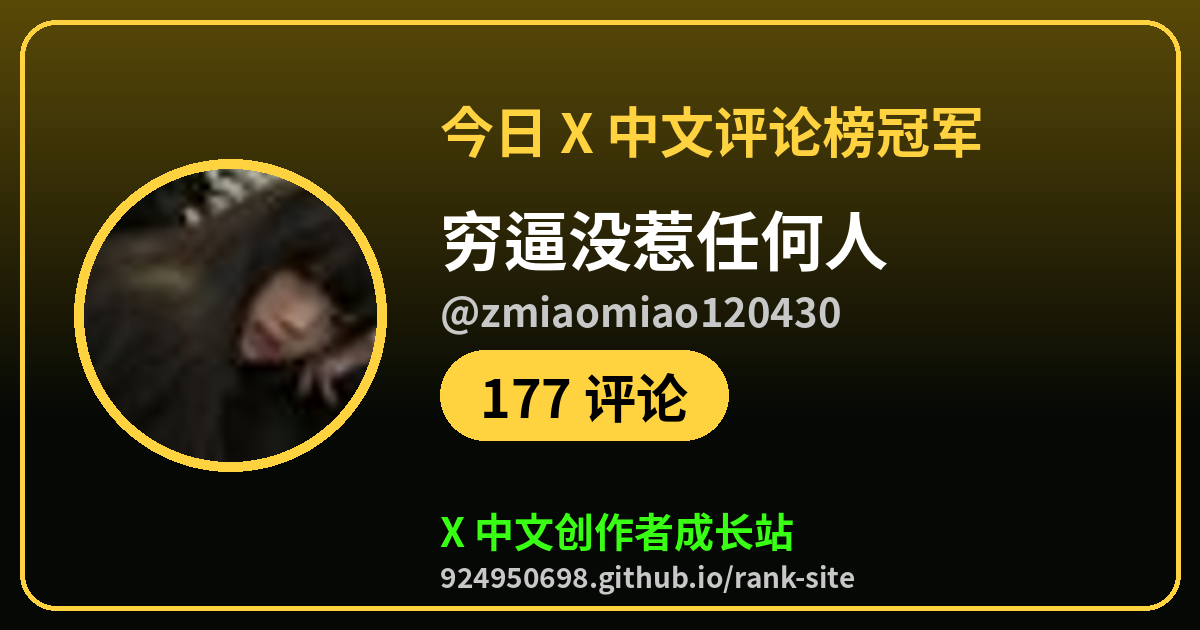
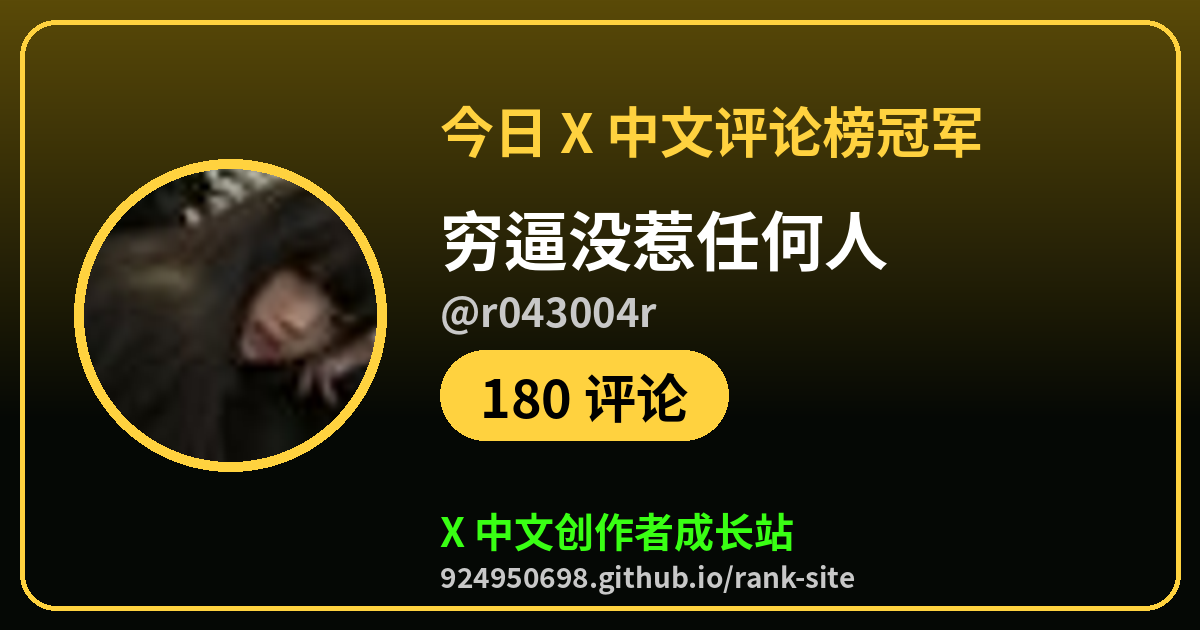
champ: 2026-10-18 07:29 CST

Changed region(s): [[0.4008, 0.4524, 0.7092, 0.5429], [0.4317, 0.6032, 0.4933, 0.6635]]

diff --git a/champ/exposure.html b/champ/exposure.html
@@ -1,7 +1,7 @@
 <!doctype html><html lang="zh-CN"><head><meta charset="utf-8"><meta name="viewport" content="width=device-width,initial-scale=1">
-<title>今日 X 中文曝光榜冠军：穷逼没惹任何人（@zmiaomiao120430）</title><meta name="description" content="11.6万 曝光，来看看今天谁在爆，你排第几">
-<meta property="og:type" content="website"><meta property="og:url" content="https://924950698.github.io/rank-site/champ/exposure.html"><meta property="og:title" content="今日 X 中文曝光榜冠军：穷逼没惹任何人（@zmiaomiao120430）"><meta property="og:description" content="11.6万 曝光，来看看今天谁在爆，你排第几">
-<meta property="og:image" content="https://924950698.github.io/rank-site/champ/exposure.png?v=20261017T2202"><meta name="twitter:card" content="summary_large_image"><meta name="twitter:site" content="@tigerr3aue">
-<meta name="twitter:title" content="今日 X 中文曝光榜冠军：穷逼没惹任何人（@zmiaomiao120430）"><meta name="twitter:description" content="11.6万 曝光，来看看今天谁在爆，你排第几"><meta name="twitter:image" content="https://924950698.github.io/rank-site/champ/exposure.png?v=20261017T2202">
-<meta http-equiv="refresh" content="0;url=https://924950698.github.io/rank-site/?champ=zmiaomiao120430&amp;board=exposure#rank"><script>location.replace("https://924950698.github.io/rank-site/?champ=zmiaomiao120430&board=exposure#rank")</script></head>
-<body style="background:#000;color:#fff;font-family:sans-serif;text-align:center;padding:40px"><a href="https://924950698.github.io/rank-site/?champ=zmiaomiao120430&amp;board=exposure#rank" style="color:#39ff14">去 X 中文创作者成长站看冠军卡片</a></body></html>
+<title>今日 X 中文曝光榜冠军：穷逼没惹任何人（@r043004r）</title><meta name="description" content="11.9万 曝光，来看看今天谁在爆，你排第几">
+<meta property="og:type" content="website"><meta property="og:url" content="https://924950698.github.io/rank-site/champ/exposure.html"><meta property="og:title" content="今日 X 中文曝光榜冠军：穷逼没惹任何人（@r043004r）"><meta property="og:description" content="11.9万 曝光，来看看今天谁在爆，你排第几">
+<meta property="og:image" content="https://924950698.github.io/rank-site/champ/exposure.png?v=20261017T2304"><meta name="twitter:card" content="summary_large_image"><meta name="twitter:site" content="@tigerr3aue">
+<meta name="twitter:title" content="今日 X 中文曝光榜冠军：穷逼没惹任何人（@r043004r）"><meta name="twitter:description" content="11.9万 曝光，来看看今天谁在爆，你排第几"><meta name="twitter:image" content="https://924950698.github.io/rank-site/champ/exposure.png?v=20261017T2304">
+<meta http-equiv="refresh" content="0;url=https://924950698.github.io/rank-site/?champ=r043004r&amp;board=exposure#rank"><script>location.replace("https://924950698.github.io/rank-site/?champ=r043004r&board=exposure#rank")</script></head>
+<body style="background:#000;color:#fff;font-family:sans-serif;text-align:center;padding:40px"><a href="https://924950698.github.io/rank-site/?champ=r043004r&amp;board=exposure#rank" style="color:#39ff14">去 X 中文创作者成长站看冠军卡片</a></body></html>

diff --git a/champ/comments.html b/champ/comments.html
@@ -1,7 +1,7 @@
 <!doctype html><html lang="zh-CN"><head><meta charset="utf-8"><meta name="viewport" content="width=device-width,initial-scale=1">
-<title>今日 X 中文评论榜冠军：穷逼没惹任何人（@zmiaomiao120430）</title><meta name="description" content="177 评论，来看看今天谁在爆，你排第几">
-<meta property="og:type" content="website"><meta property="og:url" content="https://924950698.github.io/rank-site/champ/comments.html"><meta property="og:title" content="今日 X 中文评论榜冠军：穷逼没惹任何人（@zmiaomiao120430）"><meta property="og:description" content="177 评论，来看看今天谁在爆，你排第几">
-<meta property="og:image" content="https://924950698.github.io/rank-site/champ/comments.png?v=20261017T2202"><meta name="twitter:card" content="summary_large_image"><meta name="twitter:site" content="@tigerr3aue">
-<meta name="twitter:title" content="今日 X 中文评论榜冠军：穷逼没惹任何人（@zmiaomiao120430）"><meta name="twitter:description" content="177 评论，来看看今天谁在爆，你排第几"><meta name="twitter:image" content="https://924950698.github.io/rank-site/champ/comments.png?v=20261017T2202">
-<meta http-equiv="refresh" content="0;url=https://924950698.github.io/rank-site/?champ=zmiaomiao120430&amp;board=comments#rank"><script>location.replace("https://924950698.github.io/rank-site/?champ=zmiaomiao120430&board=comments#rank")</script></head>
-<body style="background:#000;color:#fff;font-family:sans-serif;text-align:center;padding:40px"><a href="https://924950698.github.io/rank-site/?champ=zmiaomiao120430&amp;board=comments#rank" style="color:#39ff14">去 X 中文创作者成长站看冠军卡片</a></body></html>
+<title>今日 X 中文评论榜冠军：穷逼没惹任何人（@r043004r）</title><meta name="description" content="180 评论，来看看今天谁在爆，你排第几">
+<meta property="og:type" content="website"><meta property="og:url" content="https://924950698.github.io/rank-site/champ/comments.html"><meta property="og:title" content="今日 X 中文评论榜冠军：穷逼没惹任何人（@r043004r）"><meta property="og:description" content="180 评论，来看看今天谁在爆，你排第几">
+<meta property="og:image" content="https://924950698.github.io/rank-site/champ/comments.png?v=20261017T2304"><meta name="twitter:card" content="summary_large_image"><meta name="twitter:site" content="@tigerr3aue">
+<meta name="twitter:title" content="今日 X 中文评论榜冠军：穷逼没惹任何人（@r043004r）"><meta name="twitter:description" content="180 评论，来看看今天谁在爆，你排第几"><meta name="twitter:image" content="https://924950698.github.io/rank-site/champ/comments.png?v=20261017T2304">
+<meta http-equiv="refresh" content="0;url=https://924950698.github.io/rank-site/?champ=r043004r&amp;board=comments#rank"><script>location.replace("https://924950698.github.io/rank-site/?champ=r043004r&board=comments#rank")</script></head>
+<body style="background:#000;color:#fff;font-family:sans-serif;text-align:center;padding:40px"><a href="https://924950698.github.io/rank-site/?champ=r043004r&amp;board=comments#rank" style="color:#39ff14">去 X 中文创作者成长站看冠军卡片</a></body></html>

diff --git a/champ/rising.html b/champ/rising.html
@@ -1,7 +1,7 @@
 <!doctype html><html lang="zh-CN"><head><meta charset="utf-8"><meta name="viewport" content="width=device-width,initial-scale=1">
 <title>今日 X 中文新号进步榜冠军：NiRox（@nirox0216）</title><meta name="description" content="+461 粉，来看看今天谁在爆，你排第几">
 <meta property="og:type" content="website"><meta property="og:url" content="https://924950698.github.io/rank-site/champ/rising.html"><meta property="og:title" content="今日 X 中文新号进步榜冠军：NiRox（@nirox0216）"><meta property="og:description" content="+461 粉，来看看今天谁在爆，你排第几">
-<meta property="og:image" content="https://924950698.github.io/rank-site/champ/rising.png?v=20261017T2202"><meta name="twitter:card" content="summary_large_image"><meta name="twitter:site" content="@tigerr3aue">
-<meta name="twitter:title" content="今日 X 中文新号进步榜冠军：NiRox（@nirox0216）"><meta name="twitter:description" content="+461 粉，来看看今天谁在爆，你排第几"><meta name="twitter:image" content="https://924950698.github.io/rank-site/champ/rising.png?v=20261017T2202">
+<meta property="og:image" content="https://924950698.github.io/rank-site/champ/rising.png?v=20261017T2304"><meta name="twitter:card" content="summary_large_image"><meta name="twitter:site" content="@tigerr3aue">
+<meta name="twitter:title" content="今日 X 中文新号进步榜冠军：NiRox（@nirox0216）"><meta name="twitter:description" content="+461 粉，来看看今天谁在爆，你排第几"><meta name="twitter:image" content="https://924950698.github.io/rank-site/champ/rising.png?v=20261017T2304">
 <meta http-equiv="refresh" content="0;url=https://924950698.github.io/rank-site/?champ=nirox0216&amp;board=rising#rank"><script>location.replace("https://924950698.github.io/rank-site/?champ=nirox0216&board=rising#rank")</script></head>
 <body style="background:#000;color:#fff;font-family:sans-serif;text-align:center;padding:40px"><a href="https://924950698.github.io/rank-site/?champ=nirox0216&amp;board=rising#rank" style="color:#39ff14">去 X 中文创作者成长站看冠军卡片</a></body></html>

diff --git a/champ/growth.html b/champ/growth.html
@@ -1,7 +1,7 @@
 <!doctype html><html lang="zh-CN"><head><meta charset="utf-8"><meta name="viewport" content="width=device-width,initial-scale=1">
 <title>今日 X 中文涨粉榜冠军：NiRox（@nirox0216）</title><meta name="description" content="+461 粉，来看看今天谁在爆，你排第几">
 <meta property="og:type" content="website"><meta property="og:url" content="https://924950698.github.io/rank-site/champ/growth.html"><meta property="og:title" content="今日 X 中文涨粉榜冠军：NiRox（@nirox0216）"><meta property="og:description" content="+461 粉，来看看今天谁在爆，你排第几">
-<meta property="og:image" content="https://924950698.github.io/rank-site/champ/growth.png?v=20261017T2202"><meta name="twitter:card" content="summary_large_image"><meta name="twitter:site" content="@tigerr3aue">
-<meta name="twitter:title" content="今日 X 中文涨粉榜冠军：NiRox（@nirox0216）"><meta name="twitter:description" content="+461 粉，来看看今天谁在爆，你排第几"><meta name="twitter:image" content="https://924950698.github.io/rank-site/champ/growth.png?v=20261017T2202">
+<meta property="og:image" content="https://924950698.github.io/rank-site/champ/growth.png?v=20261017T2304"><meta name="twitter:card" content="summary_large_image"><meta name="twitter:site" content="@tigerr3aue">
+<meta name="twitter:title" content="今日 X 中文涨粉榜冠军：NiRox（@nirox0216）"><meta name="twitter:description" content="+461 粉，来看看今天谁在爆，你排第几"><meta name="twitter:image" content="https://924950698.github.io/rank-site/champ/growth.png?v=20261017T2304">
 <meta http-equiv="refresh" content="0;url=https://924950698.github.io/rank-site/?champ=nirox0216&amp;board=growth#rank"><script>location.replace("https://924950698.github.io/rank-site/?champ=nirox0216&board=growth#rank")</script></head>
 <body style="background:#000;color:#fff;font-family:sans-serif;text-align:center;padding:40px"><a href="https://924950698.github.io/rank-site/?champ=nirox0216&amp;board=growth#rank" style="color:#39ff14">去 X 中文创作者成长站看冠军卡片</a></body></html>
